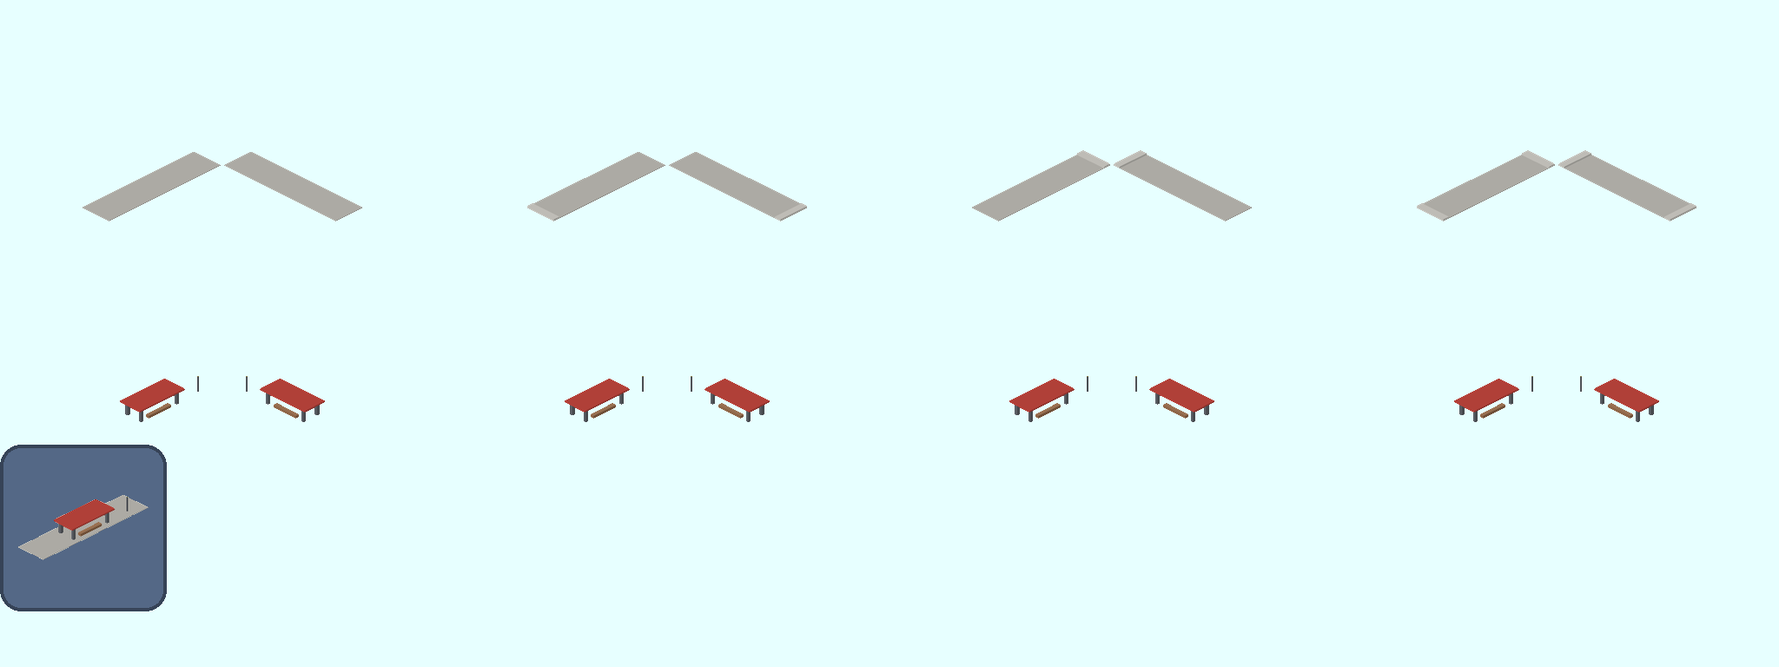
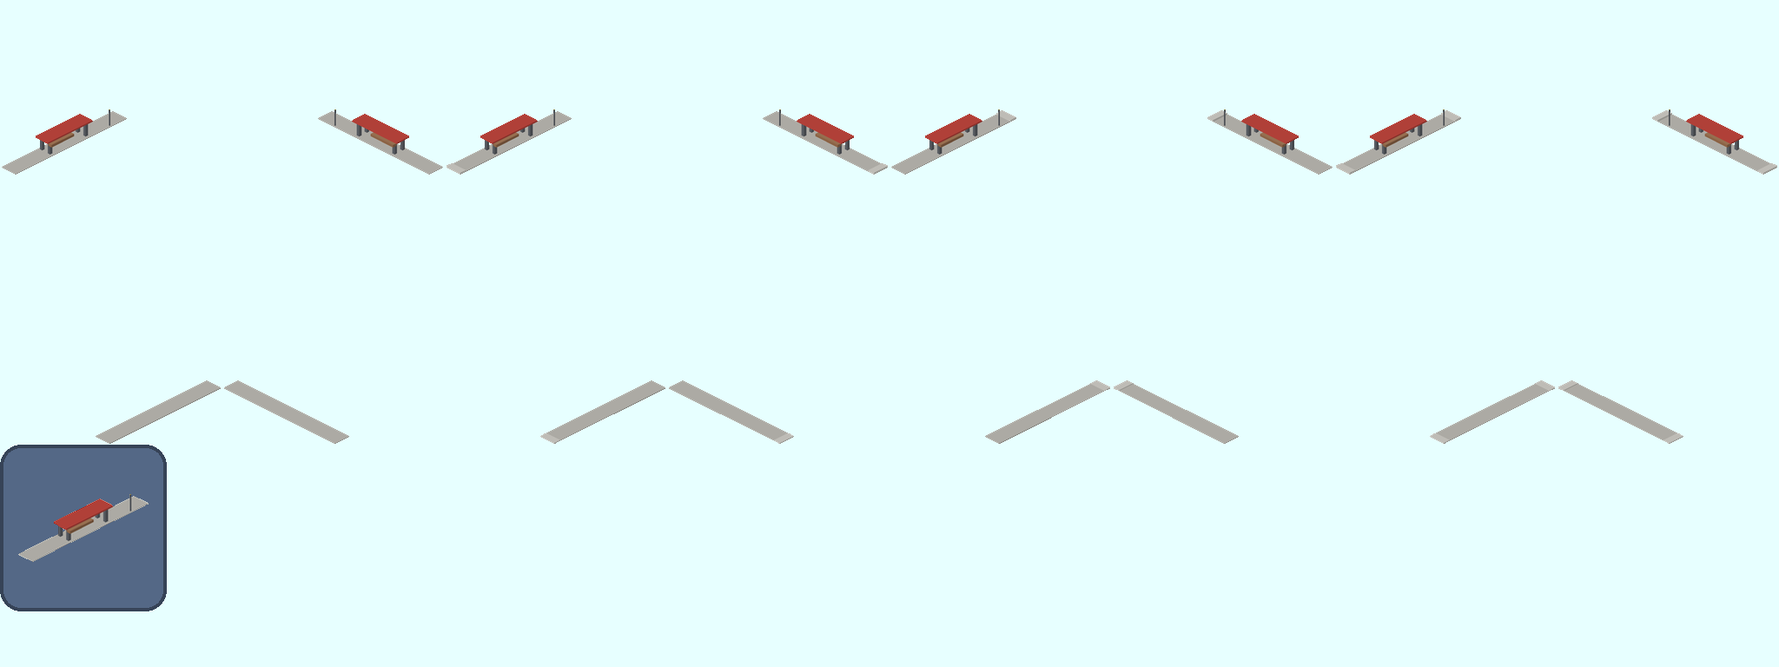
バス停・荷役所の歩道と待合を、道路の白線の外へ移す (#115)
AMI の生活道路の白線（c = 0.156〜0.172 と 0.828〜0.844）に重ならないように、
待合・小屋は道路の奥の側（後ろの絵）、手前の側は低い歩道の帯だけ（前の絵）にする。

diff --git a/objects/station/road_stops/draw_stops.py b/objects/station/road_stops/draw_stops.py
@@ -5,7 +5,10 @@
   6 NS 両端、7 EW 両端）。NS は v の向き（左下）、EW は u の向き（右下）。南は +v、東は +u。
 - 絵は 後ろ（車の下）と 前（車の上）の 2 枚に分ける。シートは 8 列（向き）× 3 行（0 行 = 後ろ、1 行 = 前、2 行 = 道具の絵）。
   セルの名前は <名前>.<行>.<列>。道具の絵（icon）は 2 行 0 列。
-- 道路そのものは描かない（道路は AMI が持つ）。道路は、タイルの中央の幅 約 9m（c = 0.33〜0.67）を通ると見て、その近い側（見える側）に停留所の設備を置く。
+- 道路そのものは描かない（道路は AMI が持つ）。AMI の生活道路（ami_road_local）は舗装がタイルの端までで、白線は軸に直交する c で
+  0.156〜0.172 と 0.828〜0.844（#115 で画面の画素から測った）。設備は白線の外（路肩）に置く。
+  奥の側（c が小さい側）に待合・小屋を置く（高い物は画面の上へ伸びるので、道路に重ならない。車より奥なので後ろの絵）。
+  手前の側（c が大きい側）には低い歩道の帯だけを置く（前の絵）。手前に背の高い物を置くと、画面で白線に重なる。
 
 使い方（Pillow が要る。書き出した PNG と表は git に入れる）:
     python -X utf8 objects/station/road_stops/draw_stops.py
@@ -41,8 +44,12 @@ ROOF_BUS = (176, 64, 56)
 ROOF_TRUCK = (96, 104, 112)
 SIGN = (232, 200, 60)
 
-# 道路の幅の外側の、近い側の帯（c の範囲）
-NEAR = (0.74, 0.98)
+# 白線の外側の端（c）。この内側（道路の中央の側）には何も置かない
+LINE_FAR, LINE_NEAR = 0.156, 0.844
+# 白線の外の帯（c の範囲）。FAR = 奥の側（待合・小屋）、NEAR = 手前の側（低い歩道だけ）
+FAR = (0.015, 0.140)
+NEAR = (0.860, 0.985)
+KERB_UP = 0.2  # 連なりの端の縁の高さ（帯の上へ。m）
 
 
 def box_a_c(cv, axis, a0, a1, c0, c1, z0, z1, wall, roof):
@@ -53,55 +60,54 @@ def box_a_c(cv, axis, a0, a1, c0, c1, z0, z1, wall, roof):
         db.flat_box(cv, a0, a1, c0, c1, z0, z1, wall, roof)
 
 
-def platform(cv, axis, south_end, north_end, z, wall, roof, near=NEAR):
-    """近い側の帯。連なりの端では、端の手前で止め、帯の上だけに小さな縁を置く（道路・線路はふさがない）。"""
+def platform(cv, axis, south_end, north_end, z, wall, roof, band, kerb_up=KERB_UP):
+    """道路の脇の帯 band（c の範囲）。連なりの端では、端の手前で止め、帯の上だけに小さな縁を置く（道路はふさがない）。"""
     a0 = 0.05 if north_end else 0.0
     a1 = 0.95 if south_end else 1.0
-    box_a_c(cv, axis, a0, a1, near[0], near[1], 0, z, wall, roof)
+    box_a_c(cv, axis, a0, a1, band[0], band[1], 0, z, wall, roof)
     if north_end:
-        box_a_c(cv, axis, 0.0, 0.05, near[0], near[1], 0, z + 0.2, KERB, KERB)
+        box_a_c(cv, axis, 0.0, 0.05, band[0], band[1], 0, z + kerb_up, KERB, KERB)
     if south_end:
-        box_a_c(cv, axis, 0.95, 1.0, near[0], near[1], 0, z + 0.2, KERB, KERB)
+        box_a_c(cv, axis, 0.95, 1.0, band[0], band[1], 0, z + kerb_up, KERB, KERB)
+
+
+# 手前の側の歩道の帯（前の絵）。高くすると白線に重なって見えるので、低くする
+def near_walk(cv, axis, s, n):
+    platform(cv, axis, s, n, 0.15, CONCRETE, CONCRETE, NEAR, kerb_up=0.05)
 
 
 # ---- バス停: 低い歩道に、屋根つきの待合 ----
 
 def bus_back(cv, axis, s, n):
-    platform(cv, axis, s, n, 0.15, CONCRETE, CONCRETE)  # 歩道
-
-
-def bus_front(cv, axis, s, n):
-    c0, c1 = 0.80, 0.94
+    platform(cv, axis, s, n, 0.15, CONCRETE, CONCRETE, FAR)  # 奥の歩道
+    c0, c1 = 0.030, 0.120
     for a in (0.34, 0.66):  # 柱 4 本
         for c in (c0, c1 - 0.02):
             box_a_c(cv, axis, a - 0.01, a + 0.01, c, c + 0.02, 0.15, 2.6, POST, POST)
-    box_a_c(cv, axis, 0.30, 0.70, c0 - 0.02, c1 + 0.02, 2.6, 2.9, ROOF_BUS, ROOF_BUS)  # 屋根
-    box_a_c(cv, axis, 0.40, 0.60, c1 - 0.03, c1, 0.15, 0.6, (140, 100, 70), (150, 110, 80))  # ベンチ
-    box_a_c(cv, axis, 0.14, 0.145, c1 - 0.02, c1 - 0.015, 0.15, 3.2, POST, SIGN)  # 停留所の標識
+    box_a_c(cv, axis, 0.40, 0.60, c0 + 0.005, c0 + 0.035, 0.15, 0.6, (140, 100, 70), (150, 110, 80))  # ベンチ（道路を向く）
+    box_a_c(cv, axis, 0.30, 0.70, c0 - 0.012, c1 + 0.012, 2.6, 2.9, ROOF_BUS, ROOF_BUS)  # 屋根
+    box_a_c(cv, axis, 0.14, 0.145, 0.125, 0.130, 0.15, 3.2, POST, SIGN)  # 停留所の標識
 
 
 # ---- 荷役所: 高い荷台の高さの積み降ろし場に、小屋と荷 ----
 
 def truck_back(cv, axis, s, n):
-    platform(cv, axis, s, n, 1.0, (150, 148, 142), CONCRETE)  # 積み降ろし場（高さ 1m）
-
-
-def truck_front(cv, axis, s, n):
-    box_a_c(cv, axis, 0.30, 0.62, 0.84, 0.96, 1.0, 4.2, (150, 160, 170), ROOF_TRUCK)  # 小屋
-    box_a_c(cv, axis, 0.68, 0.80, 0.80, 0.90, 1.0, 2.0, (170, 126, 82), (184, 140, 94))  # 荷（木箱）
-    box_a_c(cv, axis, 0.14, 0.145, 0.88, 0.895, 1.0, 4.0, POST, SIGN)  # 標識
+    platform(cv, axis, s, n, 1.0, (150, 148, 142), CONCRETE, FAR)  # 奥の積み降ろし場（高さ 1m）
+    box_a_c(cv, axis, 0.30, 0.62, 0.022, 0.118, 1.0, 4.2, (150, 160, 170), ROOF_TRUCK)  # 小屋
+    box_a_c(cv, axis, 0.68, 0.80, 0.050, 0.126, 1.0, 2.0, (170, 126, 82), (184, 140, 94))  # 荷（木箱）
+    box_a_c(cv, axis, 0.14, 0.145, 0.110, 0.125, 1.0, 4.0, POST, SIGN)  # 標識
 
 
 STOPS = {
     "bus_stop": dict(
-        name="pak256_bus_stop", back=bus_back, front=bus_front,
+        name="pak256_bus_stop", back=bus_back, front=near_walk,
         dat={"waytype": "road", "enables_pax": 1, "enables_post": 1, "level": 2, "intro_year": 1900},
-        note="バス停。旅客と郵便。屋根つきの待合（高さ 2.9m）のある歩道",
+        note="バス停。旅客と郵便。道路の奥の側に屋根つきの待合（高さ 2.9m）のある歩道、手前の側に低い歩道",
     ),
     "truck_stop": dict(
-        name="pak256_truck_stop", back=truck_back, front=truck_front,
+        name="pak256_truck_stop", back=truck_back, front=near_walk,
         dat={"waytype": "road", "enables_ware": 1, "level": 2, "intro_year": 1900},
-        note="トラックの荷役所。貨物。高さ 1m の積み降ろし場に小屋と木箱",
+        note="トラックの荷役所。貨物。道路の奥の側に高さ 1m の積み降ろし場と小屋と木箱、手前の側に低い歩道",
     ),
 }
 
@@ -119,12 +125,8 @@ def sheet(stop):
     for i in range(LAYOUTS):
         out.paste(cell(stop["back"], i), (i * CELL, 0))
         out.paste(cell(stop["front"], i), (i * CELL, CELL))
-    # 道具の絵: 向き 0（NS 中）の後ろと前を重ねる
-    art = Image.new("RGB", (CELL, CELL), CLEAR)
-    for row in (0, 1):
-        part = out.crop((0, row * CELL, CELL, row * CELL + CELL))
-        art.paste(part, (0, 0), _mask(part))
-    out.paste(tool_icon(art, ICON_BG), (0, CELL * 2))
+    # 道具の絵: 向き 0（NS 中）の後ろ（待合・小屋のある側）だけを使う。手前の歩道まで入れると、収める倍率が下がって小さくなる
+    out.paste(tool_icon(out.crop((0, 0, CELL, CELL)), ICON_BG), (0, CELL * 2))
     return out
 
 

diff --git a/docs/records/2026-11-26_stop-overlap-screens/run.py b/docs/records/2026-11-26_stop-overlap-screens/run.py
@@ -1,0 +1,104 @@
+"""バス停・荷役所と道路の白線の重なりを撮る（#115）。MIT License。tools/game.py の Game の上で動く。
+
+温帯（x<256）の平らな地図に、東西の道路と南北の道路を敷き、それぞれにバス停 1 つと荷役所 2 つを置いて、
+バス・郵便のトラック・石炭のトラックを、ダイヤの積載の待ち 100% で停めて撮る。車両を停めない 3 タイル続きの停留所も撮る。
+
+使い方: python -X utf8 run.py <検証環境> <ポート> <出力フォルダ>
+"""
+import argparse
+import os
+import sys
+import time
+
+HERE = os.path.dirname(os.path.abspath(__file__))
+sys.path.insert(0, os.path.join(HERE, "..", "..", "..", "tools"))
+import game  # noqa: E402
+from game import Game  # noqa: E402
+
+_day_night_off = game.append_day_night_off
+
+
+def _no_names(simuconf):
+    """停留所の名前の札を消す（札が絵に重なるため。作業フォルダの写しだけ）。"""
+    _day_night_off(simuconf)
+    with open(simuconf, "a", encoding="utf-8") as f:
+        f.write("show_names = 0" + chr(10))
+
+
+game.append_day_night_off = _no_names
+
+ap = argparse.ArgumentParser()
+ap.add_argument("env")
+ap.add_argument("port", type=int)
+ap.add_argument("out")
+a = ap.parse_args()
+os.makedirs(a.out, exist_ok=True)
+
+ROAD = "ami_road_local"
+EY = 60          # 東西の道路の y（x=52〜76）
+NX = 90          # 南北の道路の x（y=50〜74）
+# (停留所, 車両, 東西の道路の x, 南北の道路の y)。車庫から遠い停留所から先に出す
+PLAN = [
+    ("pak256_truck_stop", "pak256_coal_truck", 70, 56),
+    ("pak256_truck_stop", "pak256_mail_truck", 65, 61),
+    ("pak256_bus_stop", "pak256_bus", 60, 66),
+]
+
+
+def c(x, y):
+    return f"coord3d({x},{y},0)"
+
+
+def depot(g, road_tile, depot_tile):
+    g.road(road_tile[0], road_tile[1], depot_tile[0], depot_tile[1], ROAD)
+    code = ('local dd=null; foreach (d in building_desc_x.get_building_list(building_desc_x.depot)) '
+            'if (d.get_name()=="ami_road_depot") dd=d; '
+            f'return command_x.build_depot(player_x(0), {c(*depot_tile)}, dd)')
+    print("[depot]", g.sq(code))
+
+
+def convoy(g, depot_tile, stop, back, name):
+    code = (f"local pl=player_x(0); local depot=depot_x({depot_tile[0]},{depot_tile[1]},0); local v=null; "
+            f'foreach (d in vehicle_desc_x.get_available_vehicles(wt_road)) if (d.get_name()=="{name}") v=d; '
+            f'if (v==null) return "no vehicle"; depot.append_vehicle(pl, convoy_x(0), v); '
+            "local l=depot.get_convoy_list(); local cnv=l[l.len()-1]; "
+            f"cnv.change_schedule(pl, schedule_x(wt_road, [schedule_entry_x({c(*stop)},100,0), schedule_entry_x({c(*back)},0,0)])); "
+            'depot.start_convoy(pl, cnv); return "ok"')
+    print("[convoy]", name, g.sq(code, timeout=60))
+
+
+def shot(g, name, x, y, zoom=3):
+    g.sq(f"gui.close_all_windows(); gui.set_zoom({zoom}); gui.jump({c(x, y)}); return 1")
+    time.sleep(2)
+    g.capture(os.path.join(a.out, name))
+    print("[shot]", name)
+
+
+with Game(a.env, "flat_512_left_v64", a.port) as g:
+    print("[way]", g.road(52, EY, 76, EY, ROAD))
+    print("[way]", g.road(NX, 50, NX, 74, ROAD))
+    for stop, _, x, y in PLAN:
+        print("[stop]", stop, g.station(x, EY, stop), g.station(NX, y, stop))
+    # 車両を停めない 3 タイル続きの停留所（中ほどと端の絵を見る）
+    for i in range(3):
+        print("[empty]", g.station(73 + i, EY, "pak256_bus_stop"), g.station(NX, 50 + i, "pak256_truck_stop"))
+    ew_depot, ns_depot = (54, EY + 1), (NX + 1, 72)
+    depot(g, (54, EY), ew_depot)
+    depot(g, (NX, 72), ns_depot)
+    for _, veh, x, y in PLAN:
+        convoy(g, ew_depot, (x, EY), (53, EY), veh)
+        convoy(g, ns_depot, (NX, y), (NX, 73), veh)
+        g.settle(3)
+    g.settle(30)
+    print("[convoys]", g.sq('local s=""; foreach (cv in world.get_convoy_list()) { local p=cv.get_pos(); '
+                            's += cv.get_name()+"@"+p.x+","+p.y+" v="+cv.get_speed()+"; "; } return s'))
+    # 東西の道路: バス停（x=60）・郵便の荷役所（x=65）・石炭の荷役所（x=70）
+    shot(g, "ew_bus.png", 60, EY)
+    shot(g, "ew_mail.png", 65, EY)
+    shot(g, "ew_coal.png", 70, EY)
+    # 南北の道路: 石炭の荷役所（y=56）・郵便の荷役所（y=61）・バス停（y=66）
+    shot(g, "ns_coal.png", NX, 56)
+    shot(g, "ns_mail.png", NX, 61)
+    shot(g, "ns_bus.png", NX, 66)
+    shot(g, "ew_empty.png", 74, EY)
+    shot(g, "ns_empty.png", NX, 51)

diff --git a/tools/test_stations.py b/tools/test_stations.py
@@ -70,6 +70,33 @@ class StationTest(unittest.TestCase):
                 self.assertEqual(str(d["icon"]).lstrip("> "), f"{os.path.basename(p)[:-5]}.2.0", f"{p}: icon")
                 self.assertTrue(has_art(2, 0), f"{sheet}: 道具の絵が空")
 
+    def test_road_stops_off_the_lane_lines(self):
+        """道路の停留所の絵は、後ろ・前のどちらも、画面で白線より内側（道路の中央の側）に画素を置かない（#115）。
+
+        ami_road_local の白線の外側の端は、軸に直交する c で 0.156 と 0.844。画素を地面（高さ 0）の座標に戻して調べるので、
+        高い物が画面の上へ伸びて道路に掛かる場合も落ちる。
+        """
+        from PIL import Image
+        for p, d in stops():
+            if d["waytype"] != "road":
+                continue
+            sheet = os.path.join(os.path.dirname(p), os.path.basename(p)[:-5] + ".png")
+            with Image.open(sheet) as im:
+                px = im.convert("RGB").load()
+            for row in (0, 1):
+                for col in range(LAYOUTS):
+                    bad = []
+                    for y in range(256):
+                        for x in range(256):
+                            if px[col * 256 + x, row * 256 + y] == (231, 255, 255):
+                                continue
+                            a, b = (x + 0.5 - 128) / 128, (y + 0.5 - 128) / 64  # a = u - v, b = u + v
+                            u, v = (b + a) / 2, (b - a) / 2
+                            c = u if col % 2 == 0 else v  # 偶数の向きは NS の道路（c = u）、奇数は EW（c = v）
+                            if 0.156 < c < 0.844:
+                                bad.append((x, y, round(c, 3)))
+                    self.assertEqual(bad[:5], [], f"{sheet}: {row} 行 {col} 列が道路に掛かる（{len(bad)} 画素）")
+
     def test_listed_in_docs(self):
         """docs/stations.md の駅の表に、全部の停留所が、扱う貨物とともに載っている。"""
         with open(os.path.join(ROOT, "docs", "stations.md"), encoding="utf-8") as f:

diff --git a/docs/records/2026-11-26_stop-overlap-screens/compare.py b/docs/records/2026-11-26_stop-overlap-screens/compare.py
@@ -1,0 +1,33 @@
+"""run.py で撮った直す前・直した後の画面を、同じ位置で切り抜いて 2 倍にして並べる（#115）。MIT License。Pillow が要る。
+
+使い方: python -X utf8 compare.py <直す前のフォルダ> <直した後のフォルダ> <出力フォルダ>
+撮った画面の中心（800, 462 付近）が、gui.jump した停留所のタイル。
+"""
+import os
+import sys
+
+from PIL import Image, ImageDraw, ImageFont
+
+BOX = (680, 470, 1080, 690)  # 停留所のタイルと、停まった車両が入る範囲
+SCALE = 2
+before, after, out = sys.argv[1:4]
+os.makedirs(out, exist_ok=True)
+font = ImageFont.truetype("meiryo.ttc", 20)
+
+SHEETS = {
+    "ew_road_z3.png": ("東西の道路（拡大 3 の 2 倍）", [("ew_bus", "バス停とバス (60,60)"), ("ew_mail", "荷役所と郵便のトラック (65,60)"), ("ew_coal", "荷役所と石炭のトラック (70,60)"), ("ew_empty", "バス停 3 タイル・車両なし (73〜75,60)")]),
+    "ns_road_z3.png": ("南北の道路（拡大 3 の 2 倍）", [("ns_bus", "バス停とバス (90,66)"), ("ns_mail", "荷役所と郵便のトラック (90,61)"), ("ns_coal", "荷役所と石炭のトラック (90,56)"), ("ns_empty", "荷役所 3 タイル・車両なし (90,50〜52)")]),
+}
+for name, (title, rows) in SHEETS.items():
+    w, h = (BOX[2] - BOX[0]) * SCALE, (BOX[3] - BOX[1]) * SCALE
+    sheet = Image.new("RGB", (w * 2 + 8, 36 + (h + 30) * len(rows)), (20, 20, 20))
+    d = ImageDraw.Draw(sheet)
+    d.text((8, 6), f"{title}　左 = 直す前、右 = 直した後", font=font, fill=(255, 255, 255))
+    for i, (shot, label) in enumerate(rows):
+        y = 36 + (h + 30) * i
+        d.text((8, y), label, font=font, fill=(255, 255, 255))
+        for j, folder in enumerate((before, after)):
+            part = Image.open(os.path.join(folder, shot + ".png")).convert("RGB").crop(BOX)
+            sheet.paste(part.resize((w, h), Image.NEAREST), (j * (w + 8), y + 30))
+    sheet.save(os.path.join(out, name), optimize=True)
+    print(name, sheet.size)

diff --git a/docs/stations.md b/docs/stations.md
@@ -2,7 +2,7 @@
 
 ## 道路の停留所（pak256 の物）
 
-道路の停留所（バス停・荷役所）は、pak256 の物（`pak256_bus_stop`・`pak256_truck_stop`）を使う（[#94](https://github.com/128-bit-net/pak256/issues/94)。2026-11-26、ユーザー: pak256 は基本のアドオンを自分で作り、当面は絵より動くことを優先する。[roadmap.md](roadmap.md) の「進め方」）。[#44](https://github.com/128-bit-net/pak256/issues/44) で仮に作った物を [#72](https://github.com/128-bit-net/pak256/issues/72) で AMI の 256 版（`ami_road_bus_stop`・`ami_road_truck_stop`）に置き換えていたが、#94 で pak256 の物に戻した（絵は #44 の物。`draw_stops.py` の整理のほかは変えていない）。AMI の停留所には頼らない。
+道路の停留所（バス停・荷役所）は、pak256 の物（`pak256_bus_stop`・`pak256_truck_stop`）を使う（[#94](https://github.com/128-bit-net/pak256/issues/94)。2026-11-26、ユーザー: pak256 は基本のアドオンを自分で作り、当面は絵より動くことを優先する。[roadmap.md](roadmap.md) の「進め方」）。[#44](https://github.com/128-bit-net/pak256/issues/44) で仮に作った物を [#72](https://github.com/128-bit-net/pak256/issues/72) で AMI の 256 版（`ami_road_bus_stop`・`ami_road_truck_stop`）に置き換えていたが、#94 で pak256 の物に戻した（#94 の時点の絵は #44 の物。[#115](https://github.com/128-bit-net/pak256/issues/115) で白線に重ならない並びに描き直した）。AMI の停留所には頼らない。
 
 置き場は `objects/station/road_stops/`。`draw_stops.py`（MIT）が PNG と表（`.yaml`）を書き出す（`python -X utf8 objects/station/road_stops/draw_stops.py`。Pillow が要る）。向きの絵・シートの並びは、線路の駅と同じ（下の「向きの絵」）。
 
@@ -12,9 +12,20 @@
 | `pak256_truck_stop` | `building` | `stop` | `road` | 貨物（`enables_ware`。旅客・郵便は扱わない） | トラックの荷役所 / Truck Loading Bay |
 
 - 1x1 タイル、`level` 2、登場年 1900（仮）、`allow_underground` 2、`noinfo` 1。建設費・維持費は書いていない（本体の既定）。
-- バス停: 道路の脇の低い歩道（高さ 0.15m）に、屋根つきの待合（高さ 2.9m）、ベンチ、標識。荷役所: 道路の脇の高さ 1m の積み降ろし場に、小屋と木箱。道路はタイルの中央の幅 約 9m（c = 0.33〜0.67）を通ると見て、近い側（c = 0.74〜0.98）に置いた。
+- バス停: 道路の奥の側の低い歩道（高さ 0.15m）に、屋根つきの待合（高さ 2.9m）、ベンチ、標識。荷役所: 奥の側の高さ 1m の積み降ろし場に、小屋と木箱。どちらも手前の側には低い歩道の帯（高さ 0.15m）だけを置く。
+- 置き方（[#115](https://github.com/128-bit-net/pak256/issues/115)）: AMI の生活道路（`ami_road_local`）は舗装がタイルの端までで、白線は道路の軸に直交する座標 c（0〜1）の 0.156〜0.172 と 0.828〜0.844 にある（画面の画素から測った。ほかの道路の種類は測っていない）。設備は白線の外の路肩に置く。奥の側（c = 0.015〜0.14。画面で道路の上側）の高い物は、道路から離れる向きに伸びるので白線に掛からない。手前の側（c = 0.86〜0.985）に背の高い物を置くと、足元が路肩にあっても画面で白線に重なるので、低い歩道だけにする。奥の側は後ろの絵（車の下）、手前の側は前の絵（車の上）。奥の車線に車が停まると、待合・小屋は車の陰に一部隠れる。`tools/test_stations.py` が、どの向きの絵も画面で白線の内側に画素を置かないことを検査する。
+- ゲームでの確かめは [記録](records/2026-11-26_stop-overlap.md)（東西・南北の道路で、バス・郵便・石炭のトラックを停めた直す前と後）。
 - カーソル（`cursor`）は書いていない。置くときのカーソルが出るかは未確認（#44 のときから。スクリプトの `tool_build_station` で置いただけで、ツールバーから置く操作は見ていない）。
 - ゲームでの確かめは [記録](records/2026-11-26_road-stops.md)（バスと郵便のトラック、石炭のトラックが、この停留所で積み降ろした）。
+
+### pak256 の道路を作るときに見直す点
+
+今の置き方は AMI の道路の形に合わせた物。pak256 専用の道路（[roadmap.md](roadmap.md) の「進め方」）を作るときは、次を見直す。
+
+- 白線・路肩の位置（`draw_stops.py` の `LINE_FAR`・`LINE_NEAR`・`FAR`・`NEAR`）と、検査（`tools/test_stations.py`）の値を、新しい道路の形に合わせる。道路の幅を実物に近づけて路肩が広くなれば、歩道を広げ、待合を手前の側にも置けるか（画面で白線に重ならないか）を確かめる。
+- 道路の種類ごとに幅が違うなら、停留所は一番幅の広い道路に合わせる（1 つの停留所の絵はどの道路にも置かれる）。
+- 道路の絵の側で停留所の分の路肩・歩道を持たせるかを決める（停留所の絵は道路を描かない）。
+- 舗装がタイルの端まであるので、今の歩道は舗装の上に載る。道路の端に草地や歩道を残す形なら、設備をそこへ置ける。
 
 ### AMI の停留所の扱い
 

diff --git a/docs/records/2026-11-26_stop-overlap.md b/docs/records/2026-11-26_stop-overlap.md
@@ -1,0 +1,29 @@
+# 停留所の歩道と待合を白線の外へ移した記録（2026-11-26）
+
+[#115](https://github.com/128-bit-net/pak256/issues/115)。縮尺の見比べ（[記録](2026-11-26_scale-check.md)）で、pak256 のバス停・荷役所の歩道と待合が AMI の生活道路の白線の上に重なっていた。OTRP v64（`sim-WinGDI64-OTRPv64.exe`）、保存データ `flat_512_left_v64`、温帯（x<256）、`tools/game.py`（昼夜は止める。`gui.set_zoom(3)`、停留所の名前の札は消す）。
+
+## 原因
+
+停留所の絵は、道路の幅を約 9m（c = 0.33〜0.67）と見て c = 0.74〜0.98 に置いていた。実際の `ami_road_local` は舗装がタイルの端までで、白線は c = 0.156〜0.172 と 0.828〜0.844（画面の 1 列の画素で測った。東西・南北とも同じ）。帯の内側の端（0.74）が手前の白線より中央寄りだった。
+
+## 直し
+
+`objects/station/road_stops/draw_stops.py`。待合・小屋などの設備は奥の側（c = 0.015〜0.14。後ろの絵）、手前の側（c = 0.86〜0.985。前の絵）は低い歩道の帯だけにした。手前に屋根や小屋を置くと、足元が路肩でも画面で白線に掛かるため。置き方の決まりは [stations.md](../stations.md) の「道路の停留所」。道具の絵は、奥の側の絵だけから作る。
+
+## 確かめ
+
+- `tools/test_stations.py` の `test_road_stops_off_the_lane_lines`: 停留所の 2 層 × 8 向きの絵の画素を地面の座標に戻し、c = 0.156〜0.844 に画素が無いことを検査する。直す前の PNG では落ちる。
+- ゲーム: `python -X utf8 docs/records/2026-11-26_stop-overlap-screens/run.py <検証環境> <ポート> <撮る先>` で、東西の道路（y=60）と南北の道路（x=90）に、バス停・荷役所 2 つを置いてバス・郵便・石炭のトラックを積載の待ち 100% で停め（6 編成とも速度 0）、車両を停めない 3 タイル続きの停留所も置いた。直す前の PNG と直した後の PNG をそれぞれ組んで同じ配置を撮り、`compare.py` で同じ位置を切り抜いて 2 倍にした。
+  - 東西の道路: ![東西](2026-11-26_stop-overlap-screens/ew_road_z3.png)
+  - 南北の道路: ![南北](2026-11-26_stop-overlap-screens/ns_road_z3.png)
+- 見た点:
+  - 直した後は、バス停・荷役所とも、東西・南北のどちらでも、歩道・待合・小屋が白線に掛からず、白線は端から端まで見える。
+  - 3 タイル続きでは、帯は切れ目なくつながる。
+  - 停まった車両は奥の車線にいるため（左側通行で東・北へ走る）、待合・小屋の下側は車両の陰になる。屋根の上の部分は見える。
+
+## 確かめていないこと
+
+- 手前の車線に停まった車両と、手前の歩道の帯の重なり（撮った車両はすべて奥の車線。帯は高さ 0.15m で車線の外なので、重ならない見込み）。
+- `ami_road_local` 以外の道路の種類の白線の位置。
+- 雪の気候、坂、地下の停留所、拡大 3 以外。
+- ツールバーの道具の絵のゲーム内の見た目（絵の検査だけ）。
